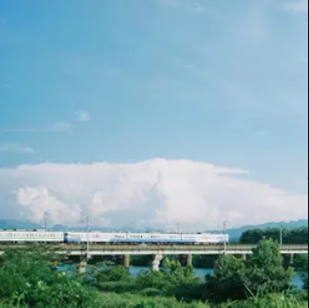
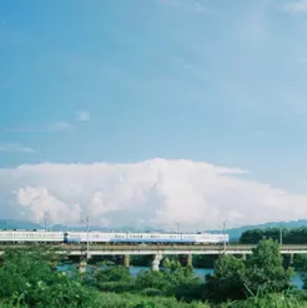
更替歌单图片

diff --git a/index.html b/index.html
@@ -71,33 +71,27 @@
                 <h2>推荐歌单</h2>
                 <ul>
                     <li>
-                        <img src="./images/playlist/1.png"
-                            alt="">
+                        <img src="./images/playlist/1.png" alt="">
                         <p>那一年，你正年轻，总觉得明天肯定会很美</p>
                     </li>
                     <li>
-                        <img src="//p1.music.126.net/7_mXVkeLJNTKRHAEw-Is_w==/109951163014228808.webp?imageView&thumbnail=247x0&quality=75&tostatic=0&type=webp"
-                            alt="">
+                        <img src="./images/playlist/2.png" alt="">
                         <p>舒缓·欧美 | 柔情嗓音，温暖人心</p>
                     </li>
                     <li>
-                        <img src="//p1.music.126.net/L97oo_dbdJkyXZOXSy-LWA==/19128203788717750.webp?imageView&thumbnail=247x0&quality=75&tostatic=0&type=webp"
-                            alt="">
+                        <img src="./images/playlist/3.png" alt="">
                         <p>现代音乐中无调性和泛调性与创新思维</p>
                     </li>
                     <li>
-                        <img src="//p1.music.126.net/Y3rXiAWKw75VUjvMBQsxUA==/1424967077460786.webp?imageView&thumbnail=247x0&quality=75&tostatic=0&type=webp"
-                            alt="">
+                        <img src="./images/playlist/4.png" alt="">
                         <p>前奏直接秒杀的纯音乐</p>
                     </li>
                     <li>
-                        <img src="//p1.music.126.net/1E1uUxqhj6ERgeR9zuhj2Q==/19066631137462753.webp?imageView&thumbnail=247x0&quality=75&tostatic=0&type=webp"
-                            alt="">
+                        <img src="./images/playlist/5.png" alt="">
                         <p>抖音大合集_Mm（抖腿吧骚年）（持续更新）</p>
                     </li>
                     <li>
-                        <img src="//p1.music.126.net/cCtqHG_Ju9ELfmGBeZNUTQ==/109951163003990470.webp?imageView&thumbnail=247x0&quality=75&tostatic=0&type=webp"
-                            alt="">
+                        <img src="./images/playlist/6.png" alt="">
                         <p>那些在你酩酊大醉后嘶吼出来的心事</p>
                     </li>
                 </ul>
